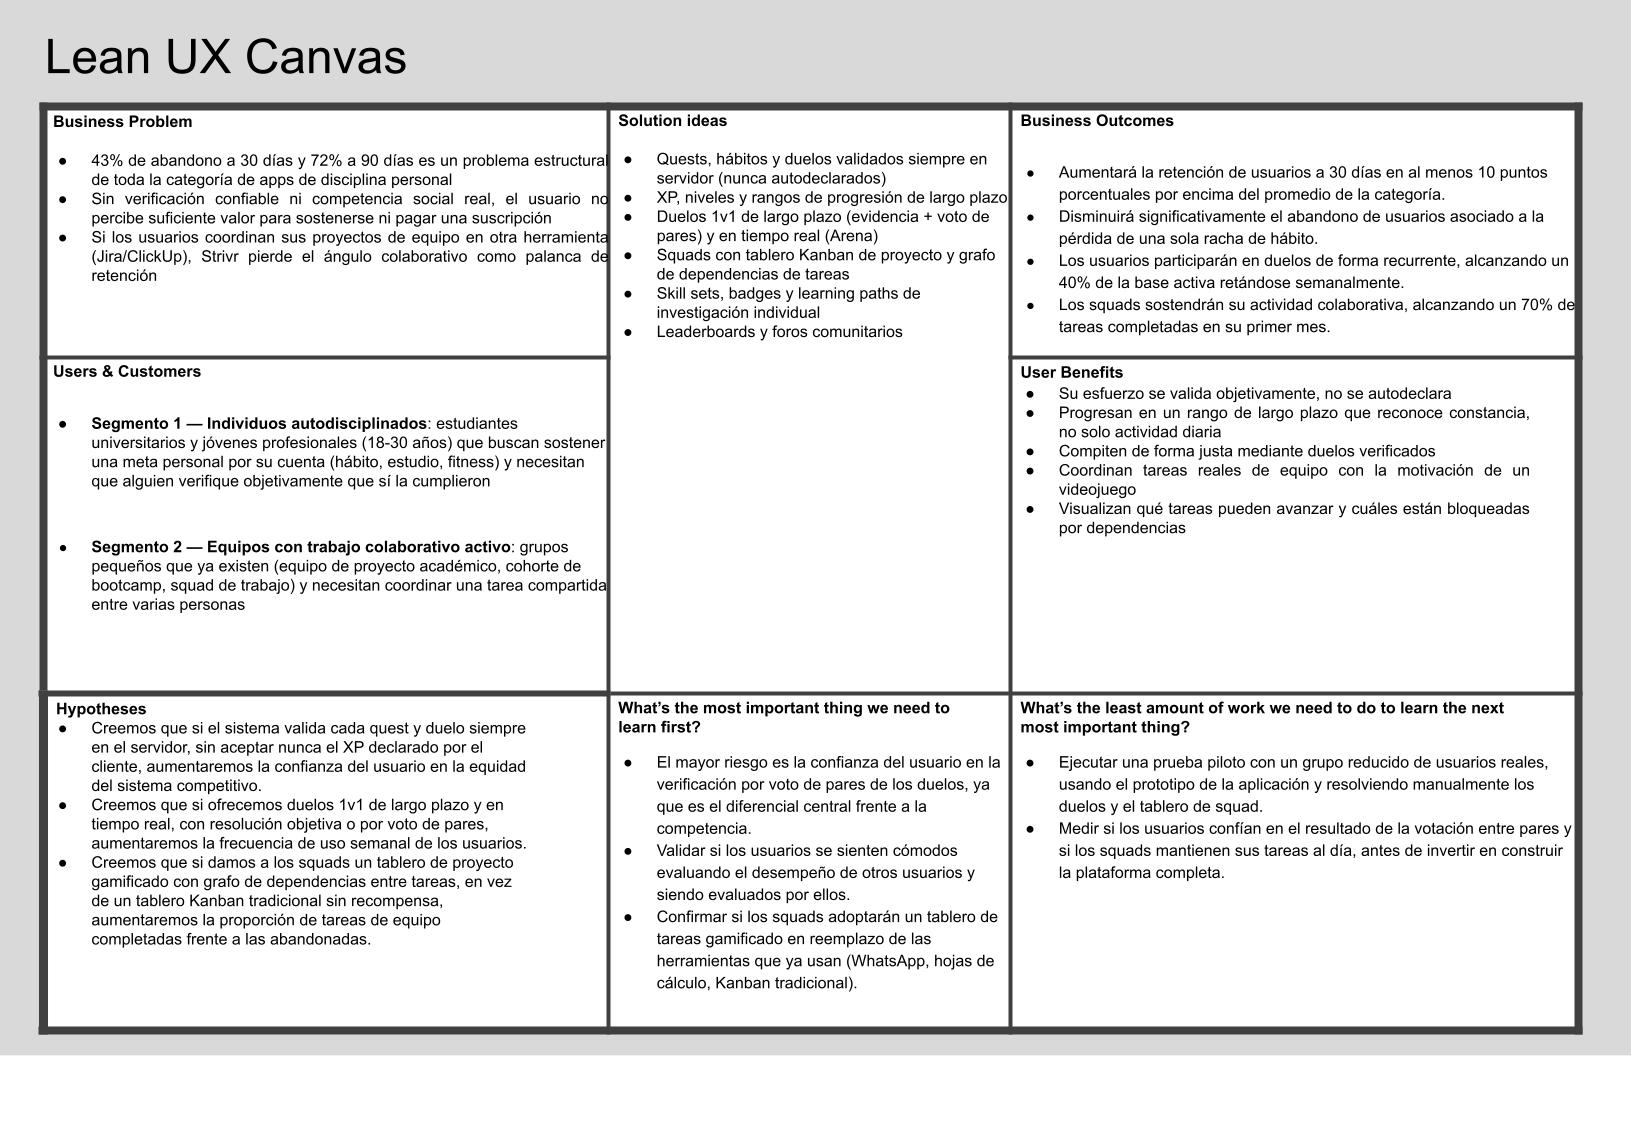
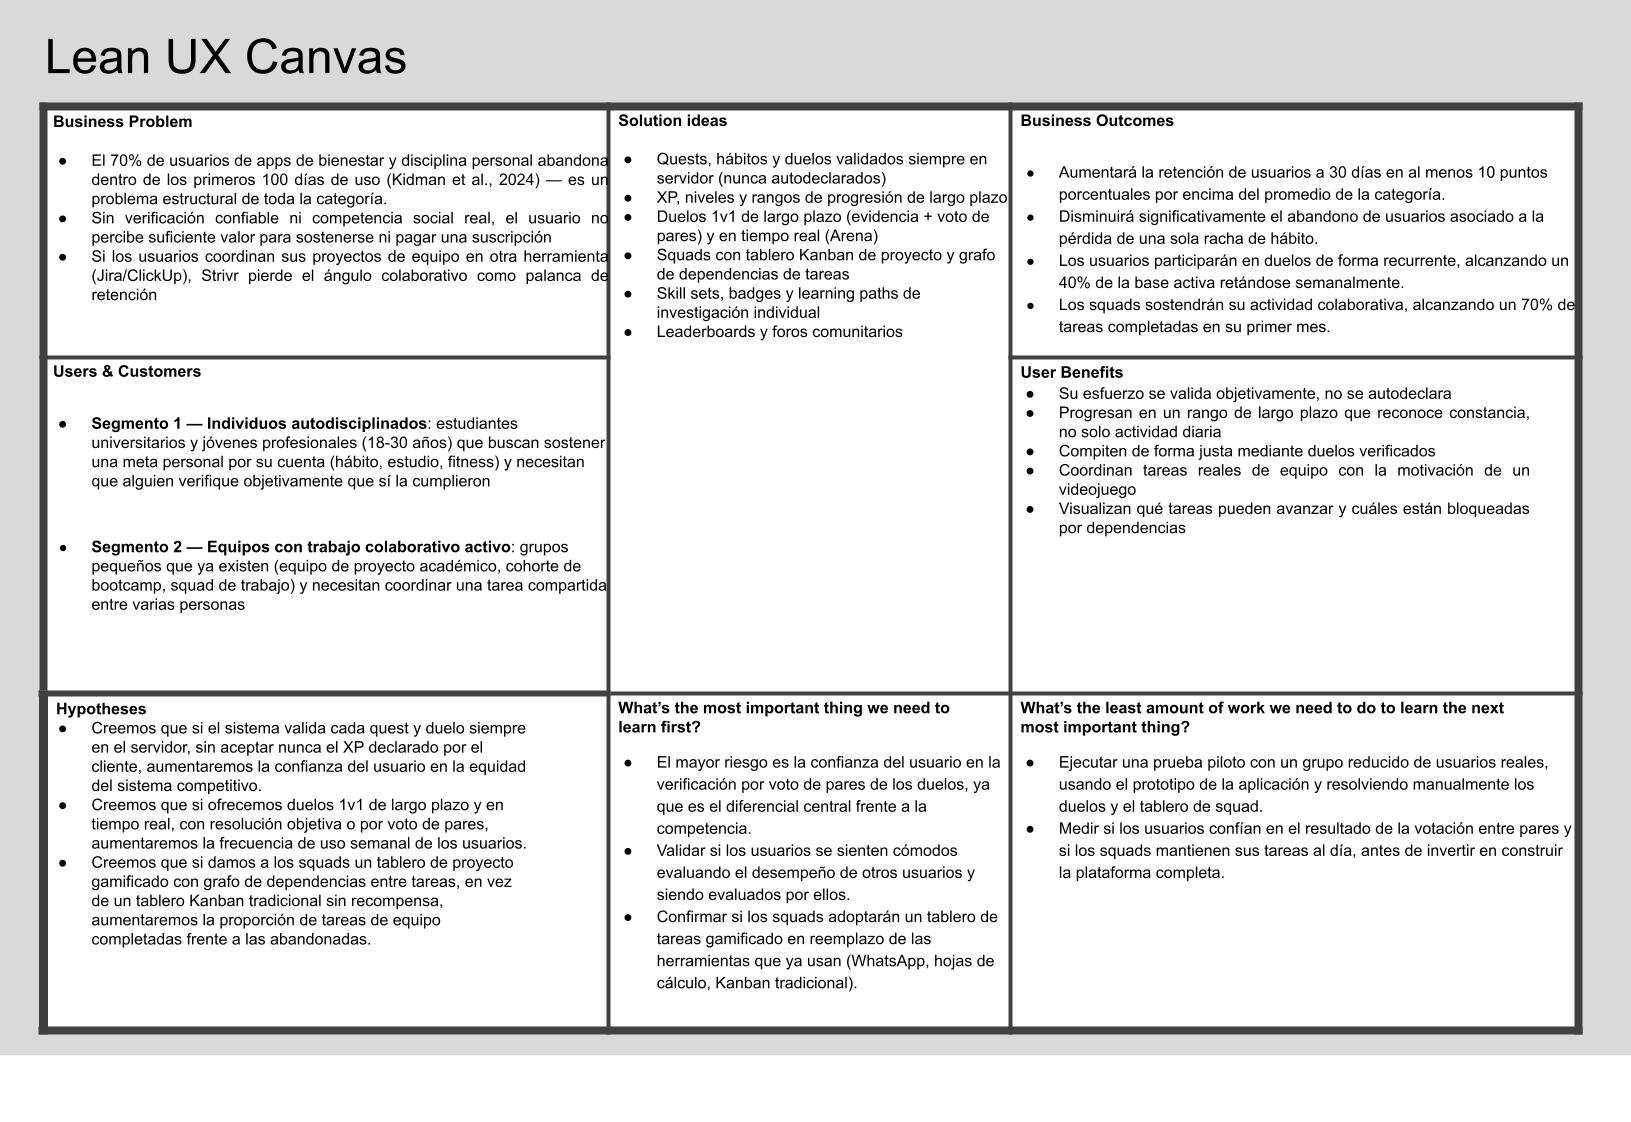
docs(lean-ux): update problem statements and references

Changed region(s): [[0.0307, 0.1248, 0.3679, 0.2807]]

diff --git a/docs/01-chapter1.md b/docs/01-chapter1.md
@@ -6,7 +6,7 @@ Nuestro servicio ofrece una plataforma web de gamificación de la disciplina per
 
 Nuestro servicio ofrece una plataforma web de gamificación de la disciplina personal orientada a convertir metas individuales y grupales —hábitos, estudio, entrenamiento físico, desarrollo de habilidades técnicas— en quests medibles con progresión de experiencia (XP), niveles y rangos de largo plazo, dirigida inicialmente a estudiantes universitarios y jóvenes profesionales que intentan sostener hábitos de autodisciplina, así como a equipos pequeños (grupos de estudio, squads de proyecto) que buscan reforzar la constancia colectiva mediante competencia social y coordinación gamificada del trabajo en equipo.
 
-Hemos observado que, al intentar sostener una meta por cuenta propia, los usuarios enfrentan un abandono sistemático: la industria de apps de seguimiento de hábitos reporta que cerca del 75% de quienes las descargan se desconecta dentro de los primeros 60 días de instalación (Dataintelo, 2026). Esta deserción se agrava porque las herramientas tradicionales dependen del honor del propio usuario para marcar algo como completado, sin verificación externa, y no ofrecen refuerzo social competitivo más allá de una racha individual que se rompe de forma silenciosa y sin consecuencia visible para nadie más. Por otro lado, cuando estas mismas personas necesitan coordinar una meta en equipo (un proyecto académico, un reto grupal), recurren a herramientas completamente distintas y no gamificadas (hojas de cálculo, tableros Kanban genéricos, chats de WhatsApp), duplicando el esfuerzo de seguimiento. Esta situación evidencia una brecha entre el estado actual —seguimiento solitario, autodeclarado, sin verificación, y desconectado del trabajo en equipo— y un estado ideal en el que el progreso individual y grupal se valida de forma confiable, se comparte con una comunidad que genera presión social positiva, y se sostiene mediante mecánicas de juego diseñadas específicamente para el largo plazo, con una retención de día 30 muy por encima del 5% promedio de la industria (Forasoft, 2026).
+Hemos observado que, al intentar sostener una meta por cuenta propia, los usuarios enfrentan un abandono sistemático: una revisión sistemática de 18 estudios con más de 500,000 participantes encontró que una mediana del 70% de los usuarios discontinúa el uso de este tipo de apps dentro de los primeros 100 días (Kidman et al., 2024). Esta deserción se agrava porque las herramientas tradicionales dependen del honor del propio usuario para marcar algo como completado, sin verificación externa, y no ofrecen refuerzo social competitivo más allá de una racha individual que se rompe de forma silenciosa y sin consecuencia visible para nadie más. Por otro lado, cuando estas mismas personas necesitan coordinar una meta en equipo (un proyecto académico, un reto grupal), recurren a herramientas completamente distintas y no gamificadas (hojas de cálculo, tableros Kanban genéricos, chats de WhatsApp), duplicando el esfuerzo de seguimiento. Esta situación evidencia una brecha entre el estado actual —seguimiento solitario, autodeclarado, sin verificación, y desconectado del trabajo en equipo— y un estado ideal en el que el progreso individual y grupal se valida de forma confiable, se comparte con una comunidad que genera presión social positiva, y se sostiene mediante mecánicas de juego diseñadas específicamente para el largo plazo, con una retención de día 30 muy por encima del 5% promedio de la industria (Forasoft, 2026).
 
 ¿De qué manera podríamos convertir el seguimiento de metas personales y grupales en una experiencia gamificada, verificada en servidor y socialmente competitiva, que sostenga la motivación de los usuarios más allá de la caída natural de las primeras semanas, y que además permita a equipos pequeños coordinar y gamificar su propio trabajo colaborativo?
 
@@ -15,7 +15,7 @@ Hemos observado que, al intentar sostener una meta por cuenta propia, los usuari
 ##### Preguntas sobre el Producto / Usuario (User Assumptions)
 
 ###### ¿Quién es el usuario?
-Nuestros usuarios primarios son estudiantes universitarios y jóvenes profesionales (18-30 años) que buscan sostener hábitos personales —estudio, fitness, aprendizaje técnico— y disfrutan de mecánicas de videojuego. Un segundo perfil dentro de la misma base son los líderes de squad o coordinadores de proyecto, que necesitan asignar y dar seguimiento a tareas de un equipo pequeño. De forma indirecta, impactamos a los moderadores de comunidad que sostienen los foros temáticos.
+Nuestros usuarios se dividen en dos segmentos, diferenciados no por edad u ocupación sino por el trabajo que llegan a resolver. El Segmento 1 son individuos autodisciplinados —estudiantes universitarios y jóvenes profesionales (18-30 años)— que buscan sostener una meta personal por su cuenta (hábito, estudio, fitness) y disfrutan de mecánicas de videojuego. El Segmento 2 son equipos con trabajo colaborativo activo —un grupo de proyecto académico, una cohorte de bootcamp, un squad ya existente— que necesitan coordinar tareas compartidas y llegan buscando reemplazar una herramienta no gamificada (WhatsApp, hojas de cálculo, Kanban tradicional). Una misma persona puede pertenecer a ambos segmentos en momentos distintos, según qué trabajo esté resolviendo en ese momento. De forma indirecta, impactamos también a los moderadores de comunidad que sostienen los foros temáticos.
 
 - El usuario individual usará el sistema para asumir quests, registrar hábitos, retar a otros en duelos y progresar en su nivel y rango.
 - El líder de squad lo usará para crear proyectos, repartir tareas en el tablero y revisar el grafo de dependencias del equipo.
@@ -152,7 +152,7 @@ Un periodo de gracia de reconexión con reincorporación al estado vigente del d
 Creemos que si el sistema valida cada quest y duelo siempre en el servidor —sin aceptar nunca el XP declarado por el cliente— aumentaremos la confianza del usuario en la equidad del sistema competitivo, reduciendo el abandono temprano típico de la categoría.
 
 **Métrica:**
-Sabremos que funcionó cuando la retención a 30 días de los primeros usuarios supere en al menos 10 puntos porcentuales el 57% promedio reportado para apps de seguimiento de hábitos (43% de abandono en 30 días), durante el primer trimestre desde el lanzamiento.
+Sabremos que funcionó cuando la retención a 30 días de los primeros usuarios alcance al menos el 15%, frente al 5% promedio de la industria (Fora Soft, 2026).
 
 ---
 
@@ -170,7 +170,7 @@ Sabremos que esto funcionó cuando el porcentaje de usuarios activos que partici
 Creemos que si introducimos un sistema de rangos de progresión de largo plazo, independiente del nivel diario, reduciremos el abandono asociado a la pérdida de una sola racha.
 
 **Métrica:**
-Sabremos que funcionó cuando la retención a 90 días supere en al menos 15 puntos porcentuales el 28% promedio de la categoría de hábitos (72% de abandono a 90 días).
+Sabremos que funcionó cuando la retención a 100 días supere el 30% promedio de la industria (70% de abandono a 100 días, Kidman et al., 2024), alcanzando al menos un 40%.
 
 ---
 

diff --git a/docs/05-chapter5.md b/docs/05-chapter5.md
@@ -1,5 +1,5 @@
 ## Bibliografía
 
-Dataintelo. (2026). Habit tracker app market research report 2034. https://dataintelo.com/report/habit-tracker-app-market
-
 Fora Soft. (2026, julio 15). Mobile app retention in 2026: The anti-abandonment playbook. Fora Soft Blog. https://www.forasoft.com/blog/article/avoid-app-abandonment-strategies
+
+Kidman, P. G., Curtis, R. G., Watson, A., & Maher, C. A. (2024). When and why adults abandon lifestyle behavior and mental health mobile apps: Scoping review. Journal of Medical Internet Research, 26, e56897. https://doi.org/10.2196/56897
